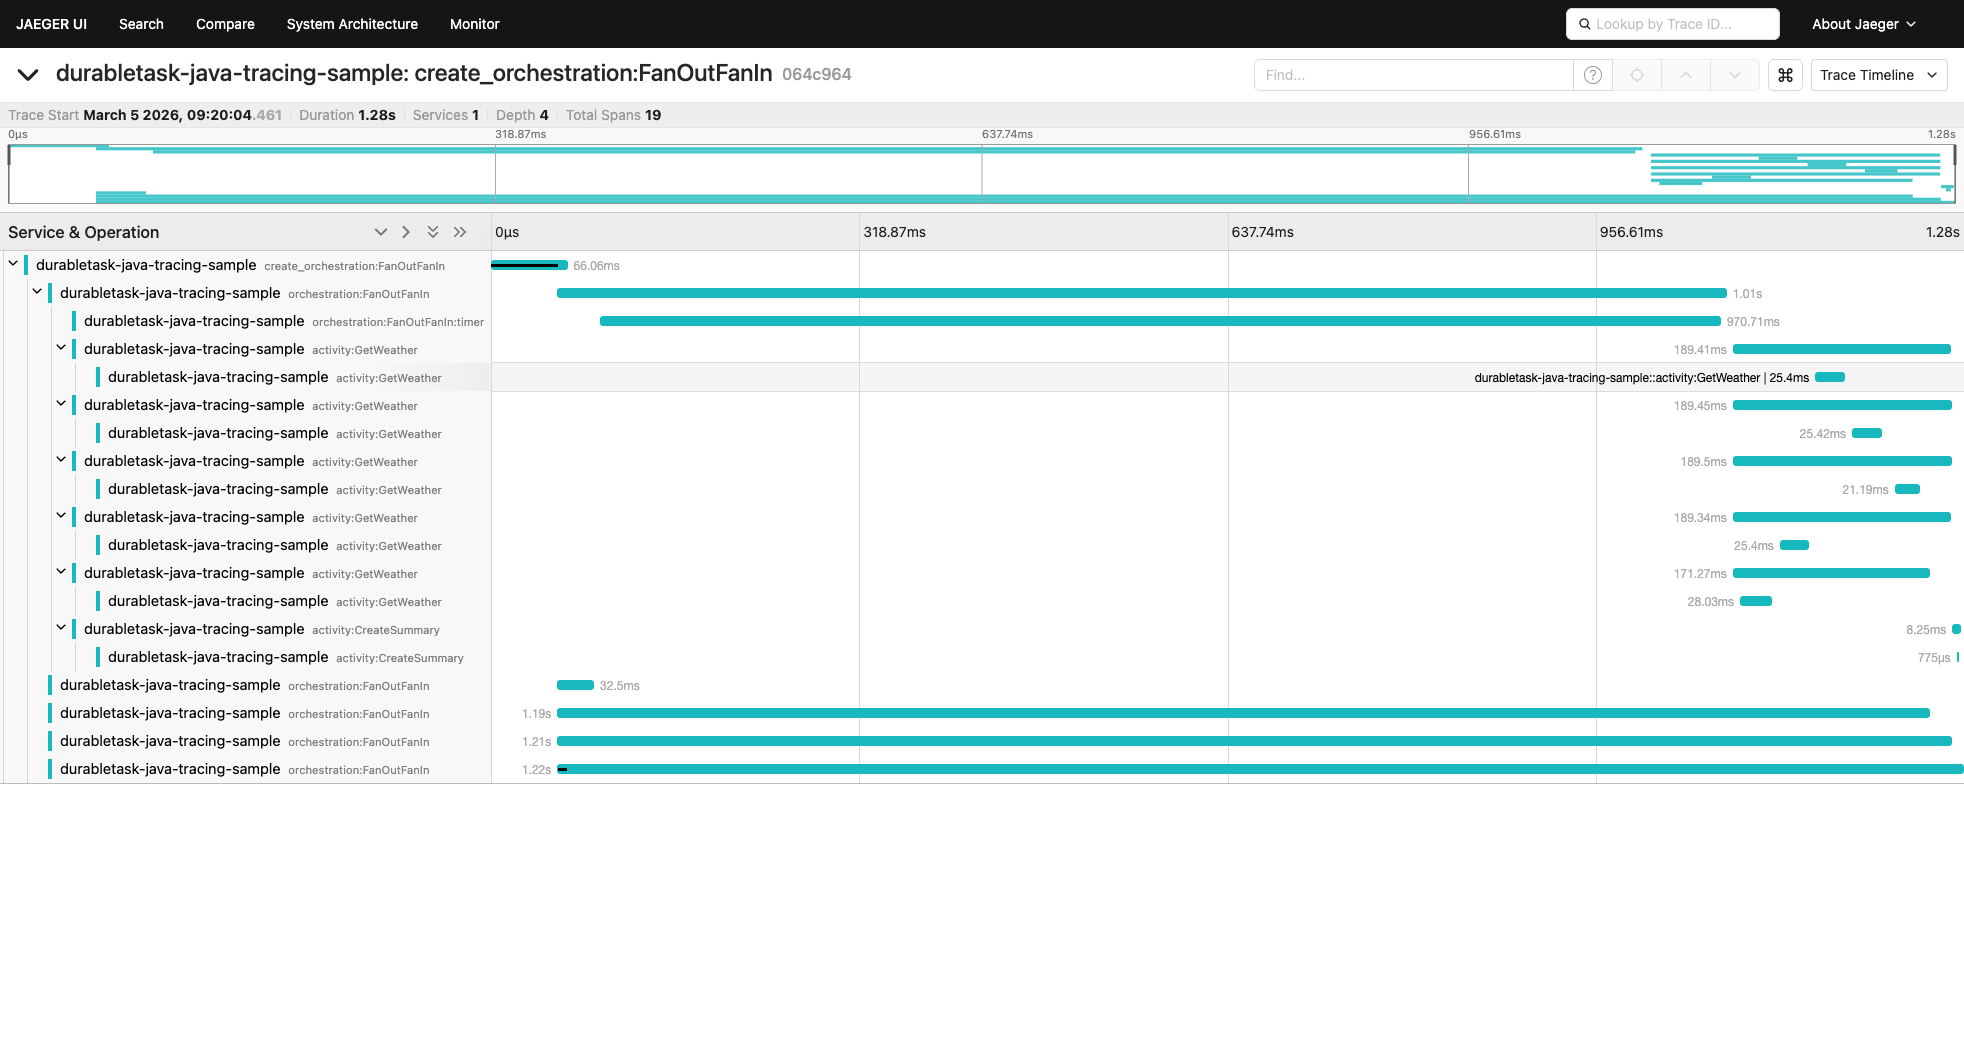
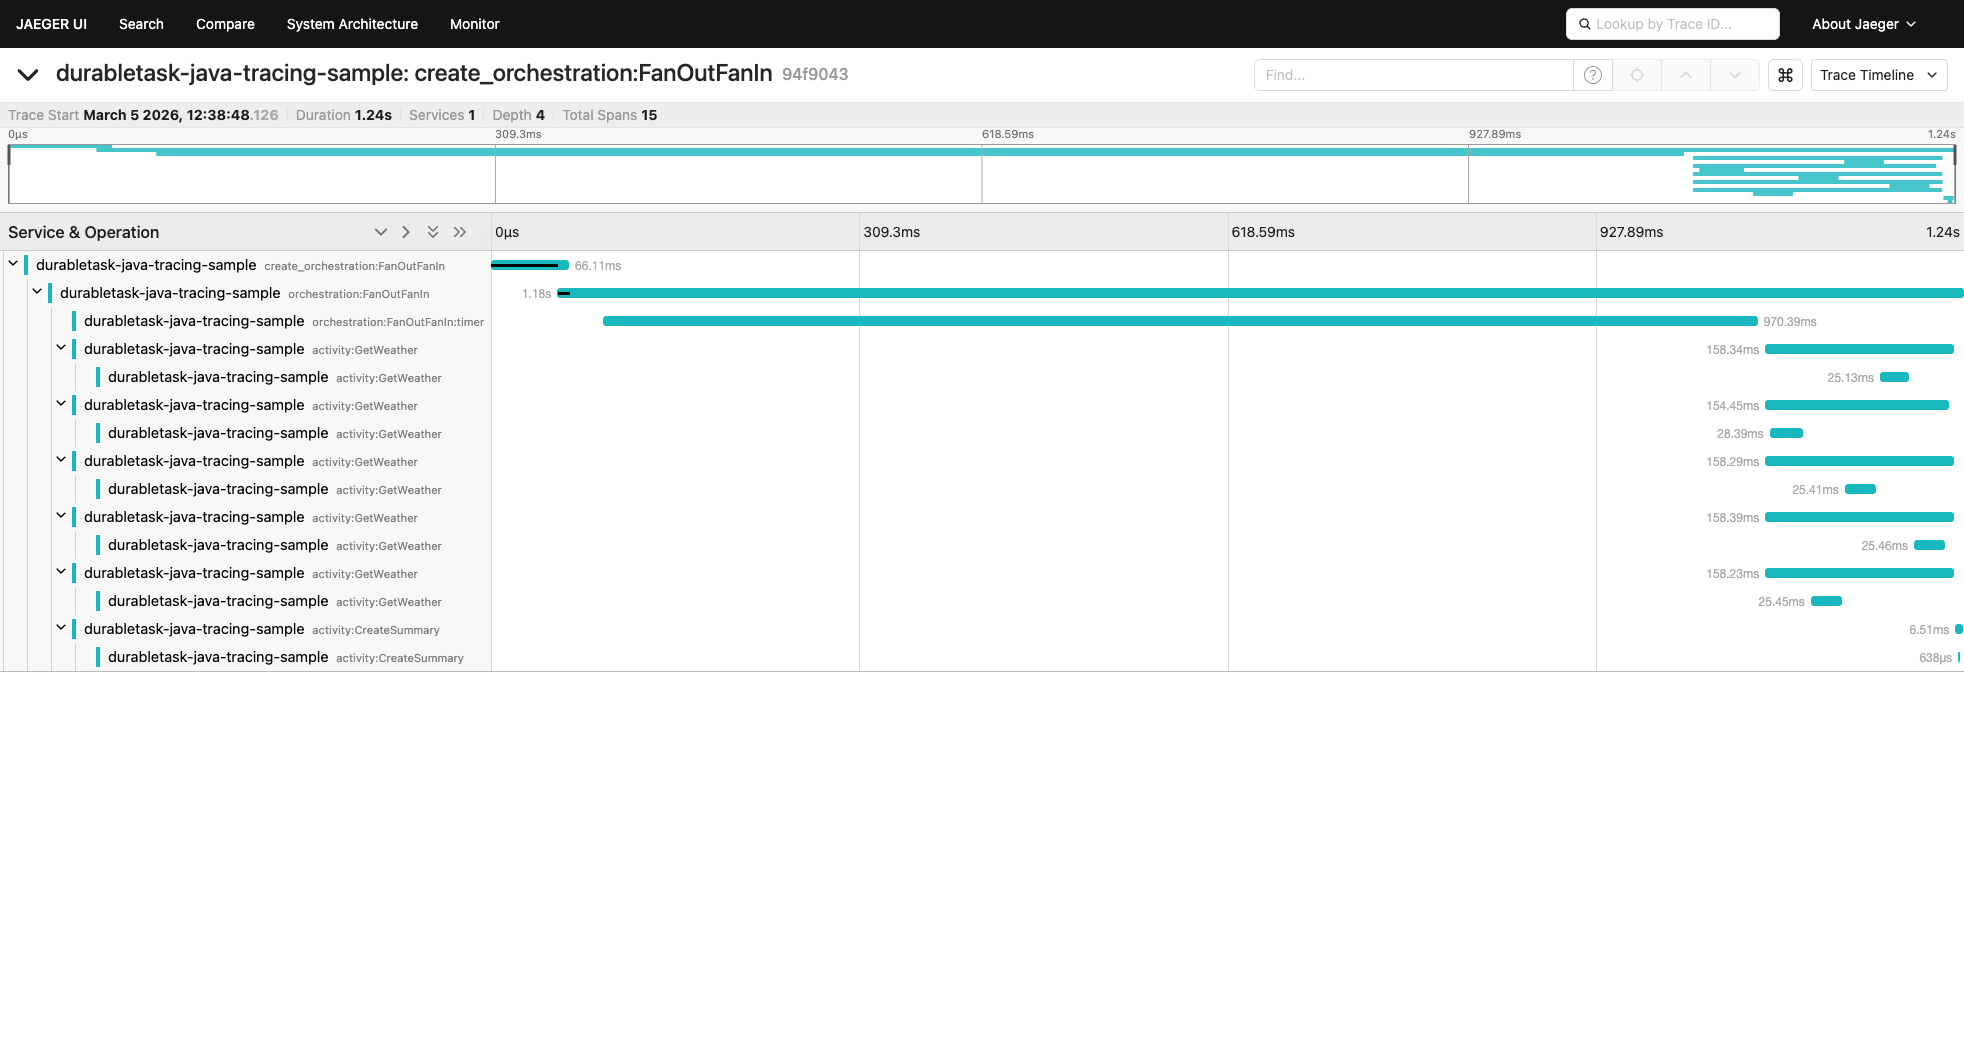
fix(tracing): improve orchestration span handling and timestamp usage for full lifecycle coverage

diff --git a/client/src/main/java/com/microsoft/durabletask/DurableTaskGrpcWorker.java b/client/src/main/java/com/microsoft/durabletask/DurableTaskGrpcWorker.java
@@ -195,8 +195,8 @@ public final class DurableTaskGrpcWorker implements AutoCloseable {
 
                             // Start the orchestration span BEFORE execution so child spans
                             // (activities, timers) are nested under it. Use setSpanId() to give
-                            // all dispatches the same span ID — Jaeger deduplicates by span ID,
-                            // keeping the latest end time (matching .NET's SetSpanId pattern).
+                            // all dispatches the same span ID for deduplication
+                            // (matching .NET's SetSpanId pattern).
                             Span orchestrationSpan = null;
                             TraceContext orchestrationSpanContext = null;
                             if (orchTraceCtx != null) {
@@ -205,11 +205,11 @@ public final class DurableTaskGrpcWorker implements AutoCloseable {
                                 orchSpanAttrs.put(TracingHelper.ATTR_TASK_NAME, orchName);
                                 orchSpanAttrs.put(TracingHelper.ATTR_INSTANCE_ID, orchestratorRequest.getInstanceId());
 
-                                Instant spanStartTime = null;
-                                if (startedHistoryEvent != null && startedHistoryEvent.hasTimestamp()) {
-                                    spanStartTime = DataConverter.getInstantFromTimestamp(
-                                            startedHistoryEvent.getTimestamp());
-                                }
+                                // Use ExecutionStartedEvent timestamp so the orchestration span
+                                // covers the full lifecycle from creation to completion
+                                Instant spanStartTime = startedHistoryEvent.hasTimestamp()
+                                        ? DataConverter.getInstantFromTimestamp(startedHistoryEvent.getTimestamp())
+                                        : null;
 
                                 orchestrationSpan = TracingHelper.startSpanWithStartTime(
                                         TracingHelper.TYPE_ORCHESTRATION + ":" + orchName,
@@ -227,7 +227,7 @@ public final class DurableTaskGrpcWorker implements AutoCloseable {
                                         && orchestratorRequest.getOrchestrationTraceContext().getSpanID().getValue() != null
                                         && !orchestratorRequest.getOrchestrationTraceContext().getSpanID().getValue().isEmpty()) {
                                     orchSpanId = orchestratorRequest.getOrchestrationTraceContext().getSpanID().getValue();
-                                } else if (orchTraceCtx != null) {
+                                } else {
                                     // Derive from parent span ID by hashing with instance ID
                                     String parentSpanId = TracingHelper.extractSpanIdFromTraceparent(
                                             orchTraceCtx.getTraceParent());
